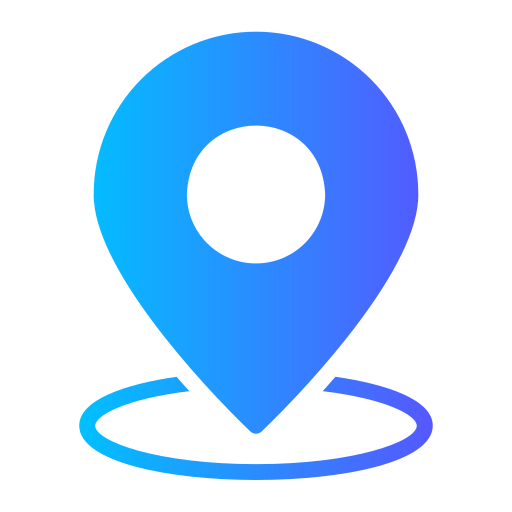
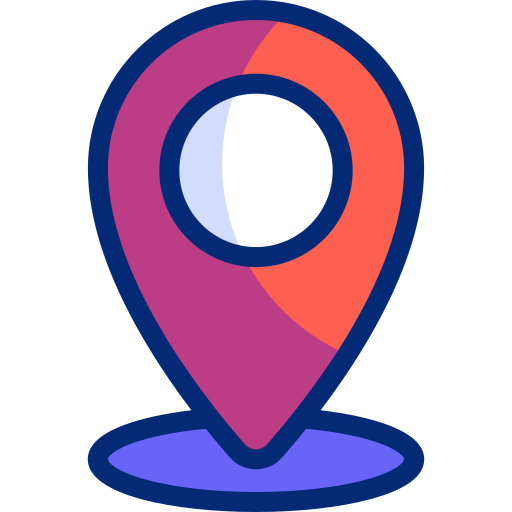
Amélioration du positionnement de l''usager
Ajout d'icones, modification du suivi de l'usager.

diff --git a/SiteWeb/index.html b/SiteWeb/index.html
@@ -14,13 +14,14 @@
     <script src="https://unpkg.com/esri-leaflet@3.0.19/dist/esri-leaflet.js"></script>
 
     <script src="https://unpkg.com/esri-leaflet-vector@4.3.2/dist/esri-leaflet-vector.js"></script>
-    <script src="https://cdn.jsdelivr.net/npm/@turf/turf@7/turf.min.js"></script> <!--Pour les traiements géographiques-->
+    <script src="https://cdn.jsdelivr.net/npm/@turf/turf@7/turf.min.js"></script>
+    <!--Pour les traiements géographiques-->
 
     <link rel="stylesheet" href="style.css">
     <script src="js/couchesFondCarte.js"></script>
     <script src="data/geojsonData.js"></script>
     <script src="cletoken.js"></script>
-        <script src="js/traitementsGeo.js"></script>
+    <script src="js/traitementsGeo.js"></script>
 </head>
 
 <body>
@@ -31,7 +32,7 @@
             <p id=nomDestinationTouristique class="infosTouristiques">Traitement en cours...</p>
             <p id=distanceDestinationTouristique class="infosTouristiques"></p>
         </div>
-        
+
     </div>
 
     <script>
@@ -66,26 +67,32 @@
 
         //Ajout des données de la BD en format GeoJSON
         addGeoJson();
-        
+
+        //Icon pour la position de l'usager
+        var myIcon = L.icon({
+            iconUrl: 'images/monster.png',
+            iconSize: [50, 50],
+            iconAnchor: [25, 25],
+            popupAnchor: [-3, -76]
+        });
+
         function localisation() {
             //Suivi de la position
-            carte.locate({ setView: true, watch: false })
+            carte.locate({ setView: false, watch: true })
                 .on('locationfound', function (e) { //Lors de l'accès à la position de l'usager
-                    pointTourismePlusProcheUsager([parseFloat(e.longitude), parseFloat(e.latitude)]);    //Avec turf on trouve le plus proche
-                    let marker = L.circle([e.latitude, e.longitude], 2, {  //Symbole de positionnement
-                        color: 'blue',
-                        fillOpacity: 1
-                    });
+                    carte.panTo([e.latitude, e.longitude]);//Déplace la carte
+                    let marker = L.marker([e.latitude, e.longitude], {icon:myIcon});
                     let circle = L.circle([e.latitude, e.longitude], e.accuracy / 2, { //Symbole pour la précision
                         weight: 0,
-                        color: 'blue',
-                        fillColor: 'blue',
+                        color: 'yellow',
+                        fillColor: 'yellow',
                         fillOpacity: 0.2
                     });
                     //Efface les couches et les ajoute pour le rafraichissement
                     groupePosition.clearLayers();
                     groupePosition.addLayer(marker);
                     groupePosition.addLayer(circle);
+                    pointTourismePlusProcheUsager([parseFloat(e.longitude), parseFloat(e.latitude)]);    //Avec turf on trouve le plus proche
                 })
                 .on('locationerror', function (e) {
                     console.log(e);
@@ -94,7 +101,7 @@
         }
 
         localisation(); //Appel de la fonction
-        
+
     </script>
 </body>
 
